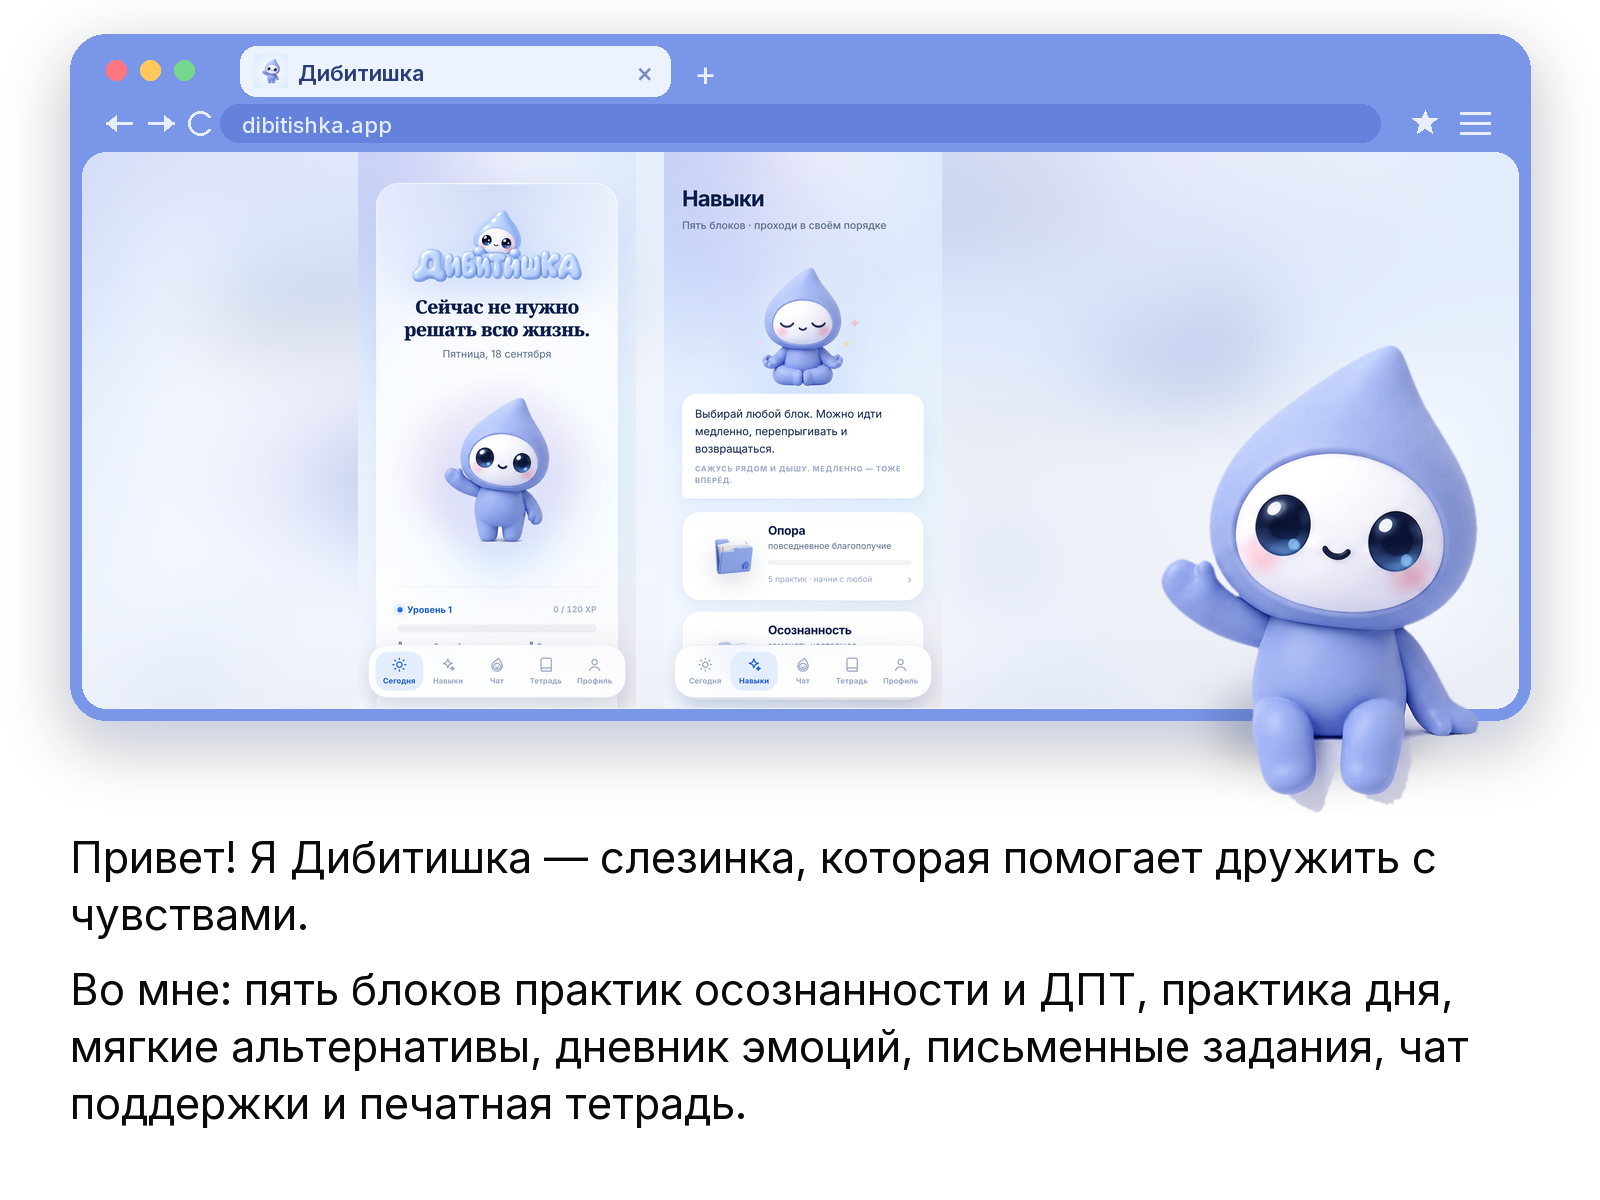
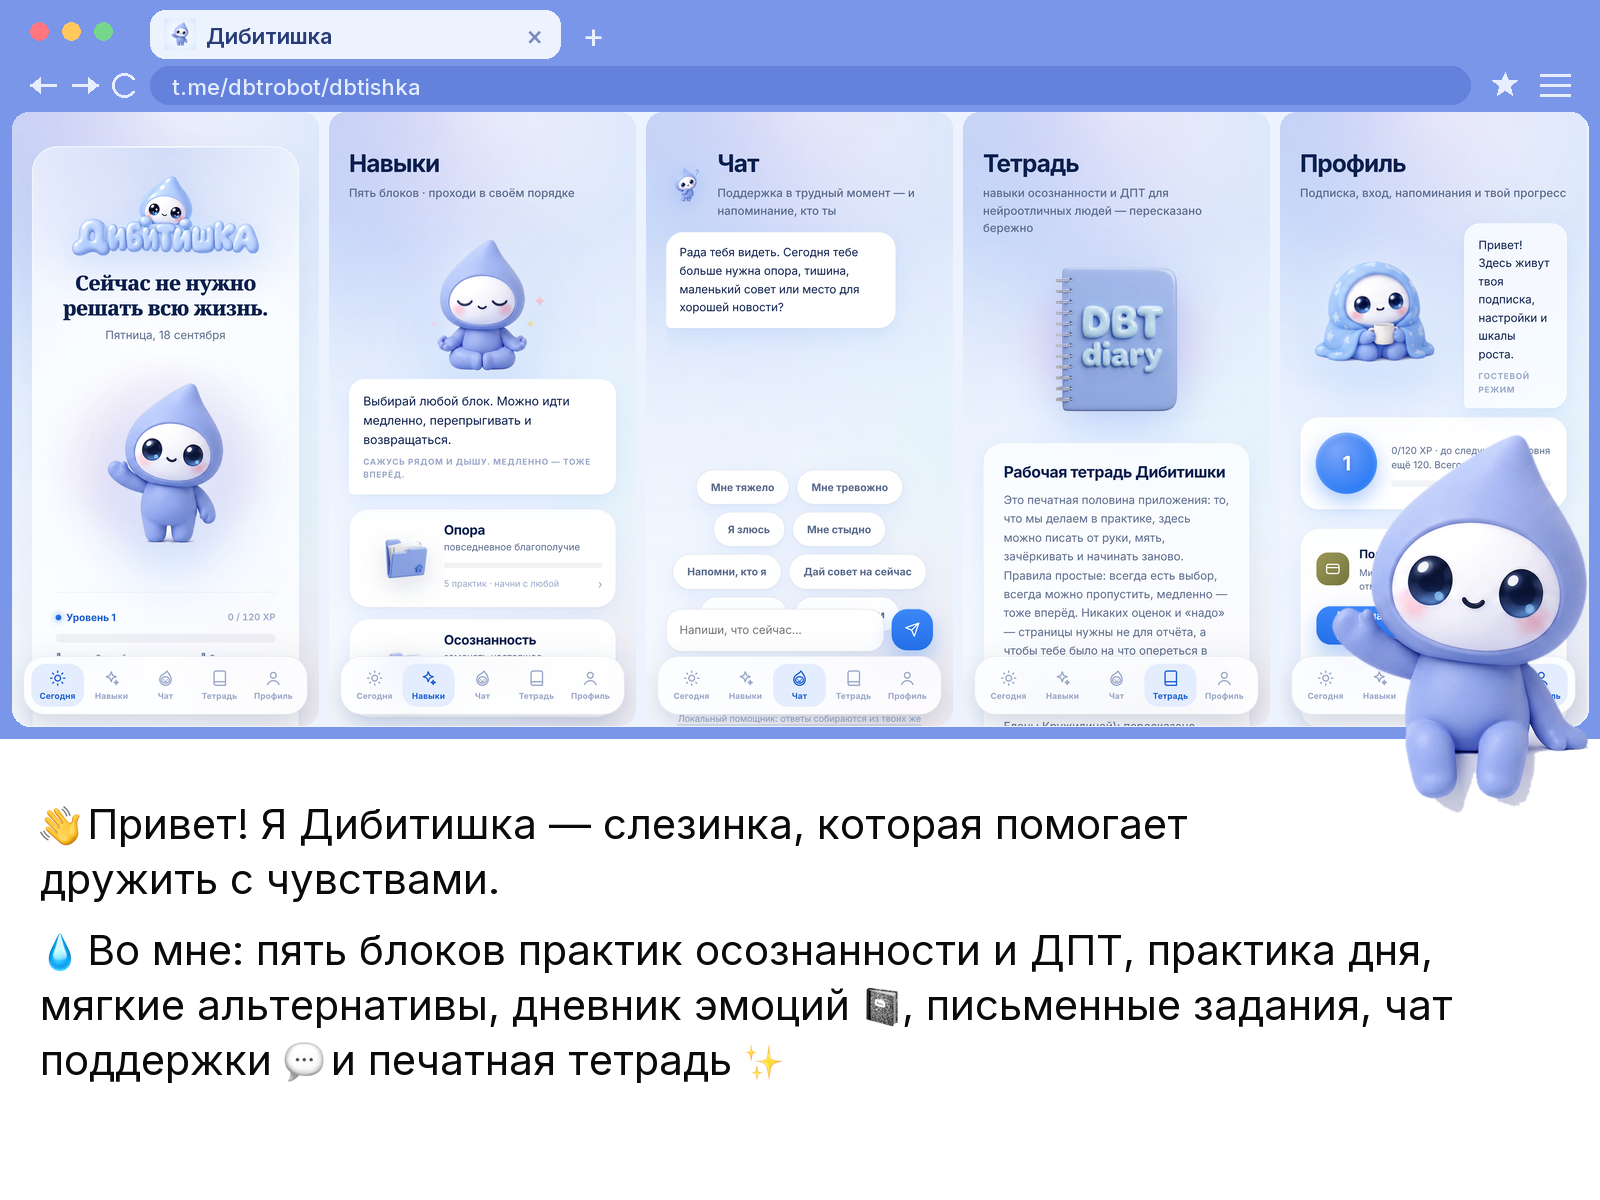
promo: окно вплотную к краям, 5 экранов, t.me/dbtrobot/dbtishka, без теней, эмодзи в тексте

diff --git a/scripts/promo-window-compose.py b/scripts/promo-window-compose.py
@@ -1,115 +1,118 @@
-from PIL import Image, ImageDraw, ImageFont, ImageFilter
-import numpy as np, textwrap
+from PIL import Image, ImageDraw, ImageFont
+import math, os
 
 W, H = 1600, 1200
 canvas = Image.new('RGBA', (W, H), 'white')
 d = ImageDraw.Draw(canvas)
 
-# ---------- «наше» окно: пастельная палитра приложения ----------
 CHROME  = (122, 150, 232)
 CHROME2 = (100, 130, 220)
 PANEL   = (237, 243, 254)
-wx0, wy0, wx1, wy1 = 70, 34, W - 70, 720
-R = 36
+INK     = (10, 10, 12)
+F = lambda w, s: ImageFont.truetype(f'/tmp/ttf/Inter-{w}.ttf', s)
 
-sh = Image.new('RGBA', (W, H), (0, 0, 0, 0))
-ImageDraw.Draw(sh).rounded_rectangle((wx0, wy0 + 22, wx1, wy1 + 22), R, fill=(70, 95, 180, 80))
-canvas.alpha_composite(sh.filter(ImageFilter.GaussianBlur(30)))
+# ---------- окно: вплотную к верху и бокам, без теней ----------
+wx0, wy0, wx1 = 0, 0, W
+bar_h = 112
+gap = 12
+# панель со скринами
+cx0, cy0, cx1 = gap, bar_h, W - gap
+shots = []
+for r in ('', '-skills', '-chat', '-workbook', '-profile'):
+    shots.append(Image.open(f'/tmp/home{r}.png').convert('RGBA'))
+n = len(shots)
+inner_gap = 10
+sw = (cx1 - cx0 - inner_gap * (n - 1)) // n
+ph = int(shots[0].height * sw / shots[0].width)
+cy1 = cy0 + ph
+wy1 = cy1 + gap
 
-d.rounded_rectangle((wx0, wy0, wx1, wy1), R, fill=CHROME)
-bar_h = 118
-cx0, cy0, cx1, cy1 = wx0 + 12, wy0 + bar_h, wx1 - 12, wy1 - 12
-d.rounded_rectangle((cx0, cy0, cx1, cy1), 24, fill=PANEL)
+d.rectangle((wx0, wy0, wx1, wy1), fill=CHROME)
+d.rounded_rectangle((cx0, cy0, cx1, cy1), 18, fill=PANEL)
+x = cx0
+for s in shots:
+    s = s.resize((sw, ph), Image.LANCZOS)
+    m = Image.new('L', s.size, 0)
+    ImageDraw.Draw(m).rounded_rectangle((0, 0, sw - 1, ph - 1), 16, fill=255)
+    canvas.paste(s, (x, cy0), m)
+    x += sw + inner_gap
+d = ImageDraw.Draw(canvas)
 
 # лампочки
 for i, c in enumerate([(255, 118, 128), (255, 200, 92), (118, 214, 140)]):
-    x = wx0 + 36 + i * 34
-    d.ellipse((x, wy0 + 26, x + 20, wy0 + 46), fill=c)
-
-# вкладка с иконкой-каплей
-tab = (wx0 + 170, wy0 + 12, wx0 + 600, wy0 + 62)
-d.rounded_rectangle(tab, 16, fill=PANEL)
-icon = Image.open('/home/user/secrdddd/app/assets/mascot/icon.png').convert('RGBA').resize((34, 34), Image.LANCZOS)
+    xx = 30 + i * 32
+    d.ellipse((xx, 22, xx + 18, 40), fill=c)
+# вкладка
+tab = (150, 10, 560, 58)
+d.rounded_rectangle(tab, 15, fill=PANEL)
+icon = Image.open('/home/user/secrdddd/app/assets/mascot/icon.png').convert('RGBA').resize((32, 32), Image.LANCZOS)
 canvas.alpha_composite(icon, (tab[0] + 14, tab[1] + 8))
-fnt_tab = ImageFont.truetype('/tmp/ttf/Inter-600.ttf', 22)
 d = ImageDraw.Draw(canvas)
-d.text((tab[0] + 58, tab[1] + 13), 'Дибитишка', font=fnt_tab, fill=(40, 60, 120))
-d.text((tab[2] - 34, tab[1] + 10), '×', font=ImageFont.truetype('/tmp/ttf/Inter-500.ttf', 26), fill=(120, 140, 190))
-d.text((tab[2] + 24, tab[1] + 6), '+', font=ImageFont.truetype('/tmp/ttf/Inter-400.ttf', 34), fill=(235, 240, 255))
-
+d.text((tab[0] + 56, tab[1] + 12), 'Дибитишка', font=F(600, 22), fill=(40, 60, 120))
+d.text((tab[2] - 34, tab[1] + 9), '×', font=F(500, 26), fill=(120, 140, 190))
+d.text((tab[2] + 22, tab[1] + 4), '+', font=F(400, 34), fill=(235, 240, 255))
 # адресная строка
-ab = (wx0 + 150, wy0 + 70, wx1 - 150, wy0 + 108)
+ab = (150, 66, W - 130, 104)
 d.rounded_rectangle(ab, 19, fill=CHROME2)
-fnt_url = ImageFont.truetype('/tmp/ttf/Inter-500.ttf', 22)
-d.text((ab[0] + 22, ab[1] + 7), 'dibitishka.app', font=fnt_url, fill=(228, 236, 255))
-nav = ImageFont.truetype('/tmp/ttf/Inter-500.ttf', 30)
-c=(230,238,255)
-yy=wy0+89
-d.line((wx0+36,yy,wx0+62,yy),fill=c,width=3); d.polygon([(wx0+36,yy),(wx0+46,yy-8),(wx0+46,yy+8)],fill=c)
-d.line((wx0+78,yy,wx0+104,yy),fill=c,width=3); d.polygon([(wx0+104,yy),(wx0+94,yy-8),(wx0+94,yy+8)],fill=c)
-d.arc((wx0+118,yy-12,wx0+142,yy+12),30,330,fill=c,width=3)
-for i in range(3): d.line((wx1-70,yy-10+i*10,wx1-40,yy-10+i*10),fill=c,width=3)
-import math
-d.polygon([(wx1-105+13*math.cos(math.radians(-90+72*i))*(1 if i%2==0 else .45)*1, yy+13*math.sin(math.radians(-90+72*i))*(1 if i%2==0 else .45)) for i in range(10)] if False else [(wx1-105+ (13 if k%2==0 else 5.5)*math.cos(math.radians(-90+36*k)), yy+(13 if k%2==0 else 5.5)*math.sin(math.radians(-90+36*k))) for k in range(10)], fill=c)
+d.text((ab[0] + 22, ab[1] + 7), 't.me/dbtrobot/dbtishka', font=F(500, 22), fill=(228, 236, 255))
+c = (230, 238, 255); yy = 85
+d.line((30, yy, 56, yy), fill=c, width=3); d.polygon([(30, yy), (40, yy - 8), (40, yy + 8)], fill=c)
+d.line((72, yy, 98, yy), fill=c, width=3); d.polygon([(98, yy), (88, yy - 8), (88, yy + 8)], fill=c)
+d.arc((112, yy - 12, 136, yy + 12), 30, 330, fill=c, width=3)
+for i in range(3): d.line((W - 60, yy - 10 + i * 10, W - 30, yy - 10 + i * 10), fill=c, width=3)
+d.polygon([(W - 95 + (13 if k % 2 == 0 else 5.5) * math.cos(math.radians(-90 + 36 * k)),
+            yy + (13 if k % 2 == 0 else 5.5) * math.sin(math.radians(-90 + 36 * k))) for k in range(10)], fill=c)
 
-# ---------- скриншот приложения, вписанный в панель ----------
-ph = cy1 - cy0
-shots=[]
-for f in ('/tmp/home.png','/tmp/home-skills.png'):
-    im_=Image.open(f).convert('RGBA'); sw=int(im_.width*ph/im_.height); shots.append(im_.resize((sw,ph),Image.LANCZOS))
-gap=28
-shot=Image.new('RGBA',(sw*2+gap,ph),(0,0,0,0)); shot.alpha_composite(shots[0],(0,0)); shot.alpha_composite(shots[1],(sw+gap,0))
-sw=shot.width
-# три «телефона» рядом? нет — один по центру, по бокам мягкий фон приложения
-bg = Image.new('RGBA', (cx1 - cx0, ph), PANEL)
-# растянутый размытый фон из скрина по бокам
-blur = shot.resize((cx1 - cx0, ph), Image.LANCZOS).filter(ImageFilter.GaussianBlur(40))
-bg.alpha_composite(blur)
-bg = Image.blend(bg, Image.new('RGBA', bg.size, PANEL), 0.35)
-sx = (bg.width - sw) // 2
-sx -= 150
-bg.alpha_composite(shot, (sx, 0))
-# маска со скруглением
-m = Image.new('L', bg.size, 0)
-ImageDraw.Draw(m).rounded_rectangle((0, 0, bg.width - 1, bg.height - 1), 24, fill=255)
-canvas.paste(bg, (cx0, cy0), m)
-
-# ---------- Дибитишка сидит на нижней кромке окна ----------
+# ---------- Дибитишка на кромке (без тени) ----------
 masc = Image.open('/tmp/mascot-cut.png').convert('RGBA')
-mh = 470
+mh = 380
 masc = masc.resize((int(masc.width * mh / masc.height), mh), Image.LANCZOS)
-# линия «сиденья» у него ~ там, где ноги переламываются (примерно 78% высоты)
 seat_frac = 0.80
-mx = W // 2 - masc.width // 2 + 520      # смещаем вправо, чтобы не закрывать экран целиком
+mx = W - masc.width - 10
 my = int(wy1 - mh * seat_frac)
-# тень на кромке и на белом фоне
-shd = Image.new('RGBA', (W, H), (0, 0, 0, 0))
-sd = ImageDraw.Draw(shd)
-sd.ellipse((mx + 60, wy1 - 30, mx + masc.width - 60, wy1 + 40), fill=(60, 80, 160, 90))
-canvas.alpha_composite(shd.filter(ImageFilter.GaussianBlur(22)))
 canvas.alpha_composite(masc, (mx, my))
 
-# ---------- текст на белом ----------
+# ---------- текст с эмодзи ----------
+EMO = '/tmp/chr/node_modules/emoji-datasource-apple/img/apple/64/'
+def emoji_img(cp, size):
+    return Image.open(EMO + cp + '.png').convert('RGBA').resize((size, size), Image.LANCZOS)
+fnt = F(400, 42)
+LH = 55
+size_e = 40
+# токены: ('t', text) / ('e', codepoint)
+paras = [
+    [('e', '1f44b'), ('t', ' Привет! Я Дибитишка — слезинка, которая помогает дружить с чувствами.')],
+    [('e', '1f4a7'), ('t', ' Во мне: пять блоков практик осознанности и ДПТ, практика дня, мягкие альтернативы, дневник эмоций'),
+     ('e', '1f4d3'), ('t', ', письменные задания, чат поддержки'), ('e', '1f4ac'), ('t', 'и печатная тетрадь'), ('e', '2728')],
+]
+tx, maxw = 40, W - 80
 d = ImageDraw.Draw(canvas)
-fnt = ImageFont.truetype('/tmp/ttf/Inter-400.ttf', 44)
-text1 = 'Привет! Я Дибитишка — слезинка, которая помогает дружить с чувствами.'
-text2 = ('Во мне: пять блоков практик осознанности и ДПТ, практика дня, мягкие альтернативы, '
-         'дневник эмоций, письменные задания, чат поддержки и печатная тетрадь.')
-tx, ty = 70, wy1 + 110
-maxw = W - 140 - 60
-def wrap(t):
-    words, lines, cur = t.split(), [], ''
-    for w_ in words:
-        test = (cur + ' ' + w_).strip()
-        if d.textlength(test, font=fnt) <= maxw: cur = test
-        else: lines.append(cur); cur = w_
-    lines.append(cur); return lines
-y = ty
-for para in (text1, text2):
-    for ln in wrap(para):
-        d.text((tx, y), ln, font=fnt, fill=(10, 10, 12))
-        y += 57
-    y += 18
-print('text bottom', y)
-canvas.convert('RGB').save('/home/user/secrdddd/docs/promo-dibitishka-4x3.png', quality=95)
-canvas.convert('RGB').save('/tmp/out.png')
+def tw(s): return d.textlength(s, font=fnt)
+y = wy1 + 60
+mascot_right_limit = mx - 20  # первая строка не должна залезать под персонажа
+for para in paras:
+    # разбиваем на слова с пометкой эмодзи
+    items = []
+    for kind, v in para:
+        if kind == 'e': items.append(('e', v))
+        else:
+            for w_ in v.split(' '):
+                if w_: items.append(('t', w_))
+    x = tx; line_limit = mascot_right_limit if y < wy1 + mh * (1 - seat_frac) else maxw + tx
+    for kind, v in items:
+        if kind == 't':
+            if v.startswith(','): x -= tw(' ')*0.6
+            wdt = tw(v)
+            if x + wdt > line_limit:
+                y += LH; x = tx
+                line_limit = mascot_right_limit if y < my + mh else maxw + tx
+            d.text((x, y), v, font=fnt, fill=INK); x += wdt + tw(' ')
+        else:
+            if x + size_e > line_limit:
+                y += LH; x = tx
+            # если предыдущий текст закончился пробелом — убираем лишний
+            canvas.alpha_composite(emoji_img(v, size_e), (int(x), y + 8)); x += size_e + (0 if False else tw(' ')*0.6)
+    y += LH + 16
+print('bottom', y, 'window bottom', wy1)
+out = '/home/user/secrdddd/docs/promo/dibitishka-window-4x3.png'
+canvas.convert('RGB').save(out); canvas.convert('RGB').save('/tmp/out.png')
